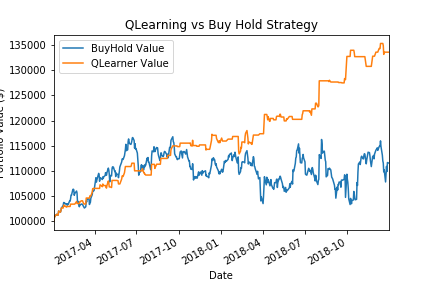
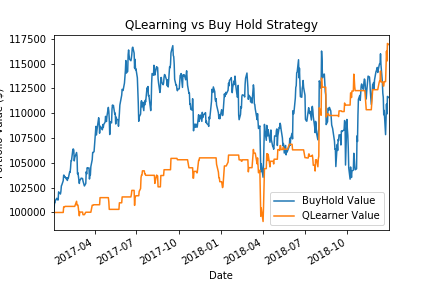
Update Indicators to use bitmapping

Changed region(s): [[0.0, 0.125, 0.9028, 0.8125]]

diff --git a/Indicators.py b/Indicators.py
@@ -55,7 +55,8 @@ class Indicators:
         df["SMA"] = self.discretize(df, "SMA")
         df["BollingerBands"] = self.discretize(df, "BollingerBands")
         
-        df["State"] = momentum # TODO: replace this with some useful indicator, and add others
+        #df["State"] = momentum # TODO: replace this with some useful indicator, and add others
+        df["State"] = df.apply(func=lambda x: int(int(x.iloc[1]) << 6 | int(x.iloc[2])), axis=1)
         df.sort_values("State", inplace=True)
         df["State"] = pd.cut(df["State"], self.Bin_Size, labels=False)
         df.sort_index(inplace=True)
@@ -68,6 +69,6 @@ class Indicators:
     """
     def get_state_size(self):
         # TODO: Change this if you add more indicators
-        return self.Bin_Size
+        return self.Bin_Size * 64
     
         
